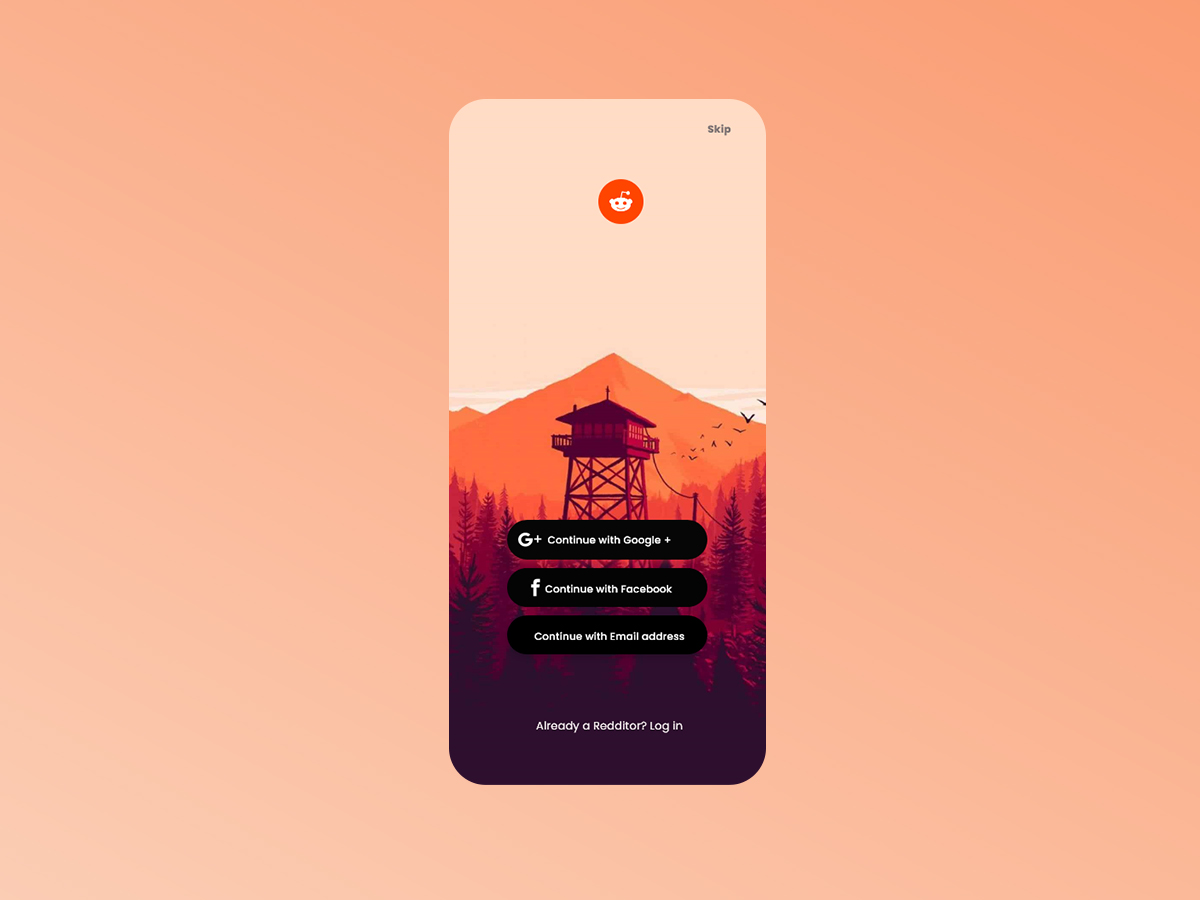
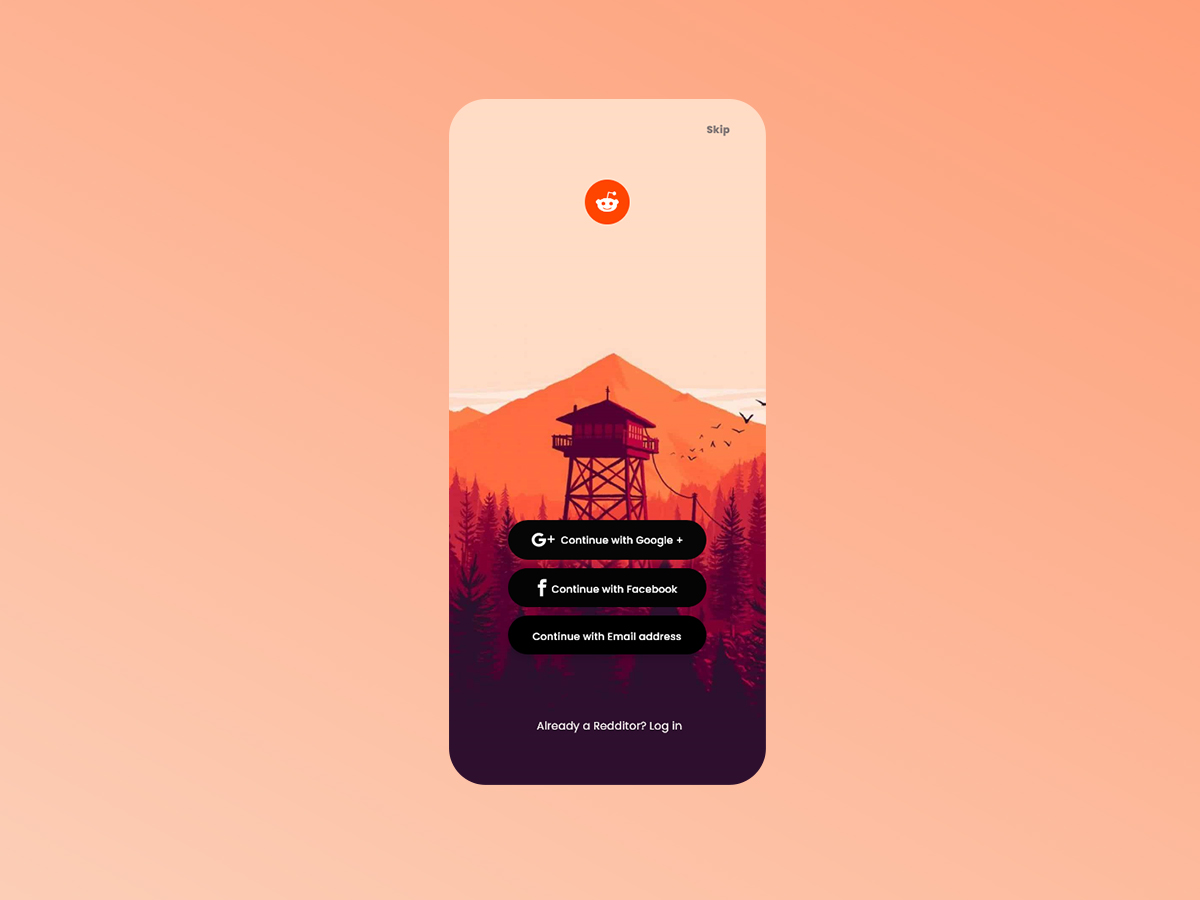
Reddit login Almost

diff --git a/lib/screens/reddit_login.dart b/lib/screens/reddit_login.dart
@@ -79,19 +79,22 @@ Widget tabWidget() {
           ),
           child: Row(
             mainAxisAlignment: MainAxisAlignment.spaceEvenly,
-            mainAxisSize: MainAxisSize.max,
+            mainAxisSize: MainAxisSize.min,
             children: [
               FaIcon(
-                FontAwesomeIcons.facebookF,
+                FontAwesomeIcons.google,
                 color: Colors.white,
               ),
-              Text(
-                "Continue With Facebook",
-                style: GoogleFonts.poppins(
-                    fontSize: 15,
-                    color: Colors.white,
-                    letterSpacing: 0.168,
-                    fontWeight: FontWeight.w500),
+              Padding(
+                padding: const EdgeInsets.all(6.0),
+                child: Text(
+                  "Sign up with Google",
+                  style: GoogleFonts.poppins(
+                      fontSize: 15,
+                      color: Colors.white,
+                      letterSpacing: 0.168,
+                      fontWeight: FontWeight.w500),
+                ),
               ),
             ],
           ),

diff --git a/lib/widgets/constants.dart b/lib/widgets/constants.dart
@@ -14,6 +14,8 @@ class UIGuide {
   static final String logo = "assets/images/Logo.png";
   // ignore: non_constant_identifier_names
   static final String pirple_logo = "assets/images/pirple_logo.png";
+  // ignore: non_constant_identifier_names
+  static final String reddit_logo = "assets/images/reddit_logo.png";
 
   // Images
   // ignore: non_constant_identifier_names
